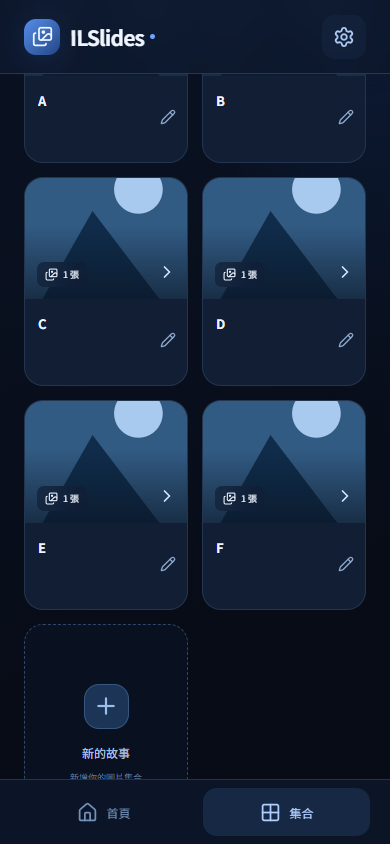
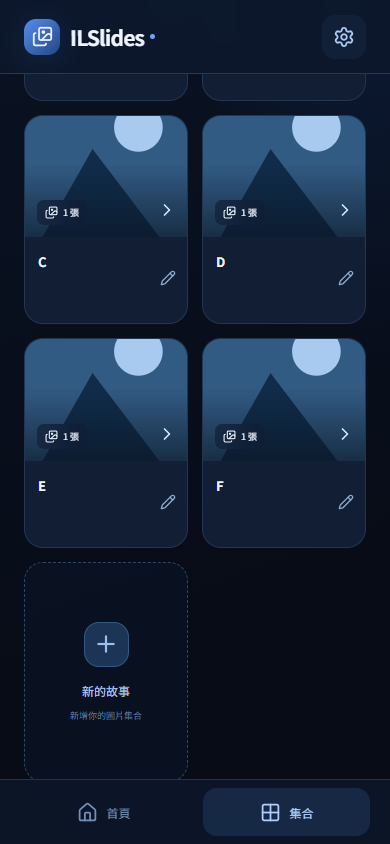
v1.0.7: 保留圖片返回位置並整合排序與標籤篩選

diff --git a/src/style.css b/src/style.css
@@ -3,10 +3,12 @@
 
 .source-section{margin-top:25px}.source-heading,.picker-heading{display:flex;align-items:center;justify-content:space-between;gap:12px;color:#97b0d3;font-size:11px}.source-heading>span,.source-heading button{display:flex;align-items:center;gap:6px}.source-heading button,.picker-heading button{color:#92b9f4;min-height:40px;font-size:10px}.folder-chips{display:flex;gap:8px;overflow:auto;padding:7px 0 12px}.folder-chips button{display:flex;align-items:center;gap:7px;flex-shrink:0;background:#142744;border:1px solid #304668;border-radius:12px;padding:11px 13px;font-size:11px;min-height:44px}.folder-chips button.chosen{background:#294d7e;border-color:#7faef2}.collection-sheet{display:flex;flex-direction:column;height:90dvh;max-height:90dvh}.collection-sheet .sheet-heading{margin-bottom:8px}.collection-sheet .sheet-handle{margin-bottom:14px}.editor-scroll{overflow:auto;min-height:0;flex:1;padding-bottom:16px}.collection-sheet .save-button{flex-shrink:0;margin-top:12px}.picker-heading{margin:12px 0 6px}.picker-empty{font-size:12px;color:#7e99bc;text-align:center;padding:24px}.photo-picker{display:grid;grid-template-columns:repeat(3,minmax(0,1fr));gap:8px}.pick-photo{position:relative;aspect-ratio:1;overflow:hidden;border-radius:12px;padding:0;border:2px solid transparent;background:#162940}.pick-photo.selected{border-color:#86b3f5}.photo-thumb{display:grid;place-items:center;width:100%;height:100%;font-size:9px;color:#8aa6cf;overflow:hidden;background:#142942}.photo-thumb img{width:100%;height:100%;object-fit:cover}.pick-check{position:absolute;top:7px;right:7px;width:22px;height:22px;border-radius:50%;border:1px solid #b1c9ed;background:#10223b90;display:grid;place-items:center}.selected .pick-check{background:#4b84d9}.pick-name{position:absolute;bottom:0;left:0;right:0;background:#071226b0;padding:7px 5px;white-space:nowrap;overflow:hidden;text-overflow:ellipsis;font-size:9px}.selected-strip{display:flex;gap:8px;overflow:auto}.selected-strip button{position:relative;width:66px;height:80px;flex-shrink:0;border-radius:10px;overflow:hidden;padding:0}.selected-strip button>span:last-of-type{position:absolute;bottom:0;left:0;right:0;font-size:8px;background:#0a1839aa;overflow:hidden;text-overflow:ellipsis;white-space:nowrap;padding:4px}.selected-strip svg{position:absolute;top:3px;right:3px;background:#07142dcc;border-radius:50%}@media(min-width:650px){.collection-sheet{height:85dvh}}
 .library>.stats{margin-top:28px}.collection-search{display:flex;align-items:center;gap:10px;background:#0f1d33;border:1px solid #2b4262;border-radius:14px;padding:0 13px;margin-bottom:18px;color:#7fa6da}.collection-search input{background:none;border:0;padding:15px 0;min-width:0}.collection-search button{display:grid;place-items:center;min-width:34px;min-height:44px}.search-empty{text-align:center;font-size:12px;color:#8fa9cf;padding:20px}.collection-card .cover{height:auto;aspect-ratio:4/3}.editor-delete{flex-shrink:0;border-top:1px solid #2c405e}.editor-delete .delete-button{width:100%;margin:8px 0 0;background:#5a2b3e70;border:1px solid #824055;border-radius:12px;font-size:12px;min-height:44px}.editor-delete .delete-confirm{margin:6px 0}.editor-delete .delete-confirm p{margin:8px 0}.crop-backdrop{position:fixed;inset:0;z-index:40;background:#030918dd;display:flex;align-items:center;justify-content:center;padding:18px}.crop-sheet{border-radius:22px;border-bottom:1px solid #324767;max-height:95dvh;padding:22px;overflow:auto}.crop-sheet .sheet-heading{margin-bottom:20px}.crop-window{position:relative;aspect-ratio:4/3;background:#081529;border:1px solid #7698c4;border-radius:14px;overflow:hidden}.crop-window canvas{width:100%;height:100%;display:block;touch-action:none;cursor:grab}.crop-window>span{position:absolute;inset:0;display:grid;place-items:center;color:#94acca;font-size:12px}.crop-guides{position:absolute;inset:0;pointer-events:none;background:linear-gradient(90deg,transparent 33%,#ffffff30 33%,#ffffff30 33.3%,transparent 33.3%,transparent 66%,#ffffff30 66%,#ffffff30 66.3%,transparent 66.3%),linear-gradient(transparent 33%,#ffffff30 33%,#ffffff30 33.3%,transparent 33.3%,transparent 66%,#ffffff30 66%,#ffffff30 66.3%,transparent 66.3%)}.zoom-row{display:flex;justify-content:space-between;align-items:center;font-size:12px;color:#a9c1e2}.zoom-row button{display:flex;align-items:center;gap:5px;font-size:10px;min-height:40px}input[type=range]{padding:0;height:40px;accent-color:#75aaff;border:0;background:none}.cover-options{display:flex;gap:9px;overflow:auto;padding:3px 0 13px}.cover-options button{position:relative;flex-shrink:0;width:76px;height:80px;border:2px solid transparent;border-radius:12px;overflow:hidden;padding:0}.cover-options button.chosen{border-color:#92bfff}.cover-options button>span:last-child{position:absolute;bottom:0;left:0;right:0;background:#08172aaa;font-size:8px;white-space:nowrap;overflow:hidden;text-overflow:ellipsis;padding:4px}.crop-sheet .save-button{margin-top:12px}
-.library{padding-top:calc(94px + env(safe-area-inset-top))}.topbar{position:fixed;top:0;left:0;right:0;z-index:15;background:#0c172bec;backdrop-filter:blur(20px);border-bottom:1px solid #243852;padding:calc(14px + env(safe-area-inset-top)) max(24px,calc((100vw - 920px)/2)) 14px;height:calc(74px + env(safe-area-inset-top))}.settings-button{color:#aac8f2;background:#1b305050}.library>.stats{margin-top:10px}.bottom-bar{padding:8px max(20px,calc((100vw - 920px)/2)) calc(8px + env(safe-area-inset-bottom));z-index:15;gap:16px}.bottom-bar button{flex:1;display:flex;align-items:center;justify-content:center;gap:9px;min-height:48px;border-radius:14px;color:#7290b8;font-size:12px}.bottom-bar button.selected{color:#b0cfff;background:#203a5d85}.sort-toolbar{display:flex;align-items:center;gap:10px;margin:0 0 18px;color:#89a9d3;font-size:11px}.sort-toolbar select{min-width:0;background:#152a47;border:1px solid #355278;border-radius:11px;padding:12px;color:#c1d4f1;font:inherit;min-height:44px;flex:1}.card-copy p+p{margin-top:6px}.settings-heading{display:flex;align-items:center;gap:12px;margin:12px 0 25px}.settings-heading h1{font-size:23px;margin:0}.setting-card{padding:24px;border:1px solid #2a405f;border-radius:20px;background:linear-gradient(145deg,#172b4a90,#101e32);margin-bottom:18px}.setting-title{display:flex;align-items:center;gap:10px;color:#a7c4f0}.setting-title h2{font-size:16px;font-weight:600;color:#e5efff;margin:0}.setting-card p{font-size:11px;color:#849fc3;line-height:1.9;margin:16px 0 25px}.duration-label,.duration-scale{display:flex;justify-content:space-between;align-items:center;font-size:12px;color:#93afd6}.duration-label output{background:#274971;padding:8px 12px;border-radius:10px;color:#d0e3ff;min-width:85px;text-align:center}.duration-scale{font-size:10px;color:#647f9f;margin:3px 0 20px}.reset-setting{padding:11px 14px;border:1px solid #355378;border-radius:11px;color:#a4c0e8;font-size:11px;min-height:44px}.setting-card .setting-note{font-size:10px;margin:20px 0 0}.version-card{display:flex;justify-content:space-between;align-items:center;font-size:12px;color:#8ca8cd}.version-card strong{color:#d0e1fb;font-size:14px;font-weight:500}.dissolve-enter-active,.dissolve-leave-active{transition-duration:var(--transition-time,360ms)}@media(min-width:650px){.library{padding-top:calc(94px + env(safe-area-inset-top))}}@media(prefers-reduced-motion:reduce){.dissolve-enter-active,.dissolve-leave-active{transition:none!important}}
+.library{padding-top:calc(94px + env(safe-area-inset-top))}.topbar{position:fixed;top:0;left:0;right:0;z-index:15;background:#0c172bec;backdrop-filter:blur(20px);border-bottom:1px solid #243852;padding:calc(14px + env(safe-area-inset-top)) max(24px,calc((100vw - 920px)/2)) 14px;height:calc(74px + env(safe-area-inset-top))}.settings-button{color:#aac8f2;background:#1b305050}.library>.stats{margin-top:10px}.bottom-bar{padding:8px max(20px,calc((100vw - 920px)/2)) calc(8px + env(safe-area-inset-bottom));z-index:15;gap:16px}.bottom-bar button{flex:1;display:flex;align-items:center;justify-content:center;gap:9px;min-height:48px;border-radius:14px;color:#7290b8;font-size:12px}.bottom-bar button.selected{color:#b0cfff;background:#203a5d85}.card-copy p+p{margin-top:6px}.settings-heading{display:flex;align-items:center;gap:12px;margin:12px 0 25px}.settings-heading h1{font-size:23px;margin:0}.setting-card{padding:24px;border:1px solid #2a405f;border-radius:20px;background:linear-gradient(145deg,#172b4a90,#101e32);margin-bottom:18px}.setting-title{display:flex;align-items:center;gap:10px;color:#a7c4f0}.setting-title h2{font-size:16px;font-weight:600;color:#e5efff;margin:0}.setting-card p{font-size:11px;color:#849fc3;line-height:1.9;margin:16px 0 25px}.duration-label,.duration-scale{display:flex;justify-content:space-between;align-items:center;font-size:12px;color:#93afd6}.duration-label output{background:#274971;padding:8px 12px;border-radius:10px;color:#d0e3ff;min-width:85px;text-align:center}.duration-scale{font-size:10px;color:#647f9f;margin:3px 0 20px}.reset-setting{padding:11px 14px;border:1px solid #355378;border-radius:11px;color:#a4c0e8;font-size:11px;min-height:44px}.setting-card .setting-note{font-size:10px;margin:20px 0 0}.version-card{display:flex;justify-content:space-between;align-items:center;font-size:12px;color:#8ca8cd}.version-card strong{color:#d0e1fb;font-size:14px;font-weight:500}.dissolve-enter-active,.dissolve-leave-active{transition-duration:var(--transition-time,360ms)}@media(min-width:650px){.library{padding-top:calc(94px + env(safe-area-inset-top))}}@media(prefers-reduced-motion:reduce){.dissolve-enter-active,.dissolve-leave-active{transition:none!important}}
 
 .editor-scroll-wrap{position:relative;flex:1;min-height:0}.editor-scroll-wrap .editor-scroll{height:100%;padding-bottom:74px}.editor-top-button{position:absolute;right:5px;bottom:14px;width:48px;height:48px;border-radius:50%;display:grid;place-items:center;background:#254d8088;border:1px solid #96bcf080;backdrop-filter:blur(10px);color:#d4e5ff;box-shadow:0 4px 18px #0004;z-index:2}
 
 .setting-toggle-row{display:flex;align-items:center;gap:18px}.setting-toggle-row>div{flex:1}.setting-toggle-row h2{font-size:15px;margin:0;color:#dfebff;font-weight:600}.setting-toggle-row p{margin:10px 0 0}.setting-toggle-row button{flex-shrink:0;width:52px;min-height:44px;position:relative;display:grid;align-items:center;padding:0 4px}.setting-toggle-row button:before{content:"";position:absolute;inset:7px 0;border-radius:20px;background:#30435f;border:1px solid #526784}.setting-toggle-row button.enabled:before{background:#477fc8;border-color:#80b5fb}.setting-toggle-row button>span{position:relative;width:22px;height:22px;border-radius:50%;background:#d9e5f5;transition:transform .2s;box-shadow:0 2px 6px #0003}.setting-toggle-row button.enabled>span{transform:translateX(22px)}.auto-name-setting .setting-note{word-break:break-word}.auto-name-hint{margin:10px 0 0;font-size:11px;color:#8fb5eb;line-height:1.7;overflow-wrap:anywhere}
 
 .tag-pill{display:inline-flex;max-width:100%;border-radius:9px;padding:2px;color:#fff;font-size:10px;line-height:1.5;overflow:hidden;text-align:left;vertical-align:middle}.tag-pill>span{display:flex;align-items:center;gap:4px;max-width:100%;padding:4px 8px;border-radius:7px;background:#06101b99;overflow-wrap:anywhere;text-shadow:0 1px 2px #0008}.collection-tags{display:flex;flex-wrap:wrap;align-content:flex-start;gap:5px;margin-top:10px;min-height:27px}.card-copy{min-width:0}.tag-picker{display:flex;flex-wrap:wrap;gap:8px}.tag-picker button{min-height:44px;border:2px solid transparent;opacity:.6}.tag-picker button.chosen{border-color:#d8e9ff;opacity:1}.tag-picker button>span{min-height:32px}.tag-hint{color:#90a8c9;font-size:11px}.tag-list{display:grid;gap:8px;margin-bottom:20px}.tag-row{display:flex;align-items:center;gap:4px;min-width:0}.tag-row>.tag-pill{margin-right:auto}.tag-row .icon-button{flex-shrink:0;min-width:44px;min-height:44px}.tag-delete{color:#e1a2b3}.tag-form{border-top:1px solid #304461;padding-top:4px}.tag-colors{display:flex;gap:18px;margin:18px 0}.tag-colors label{display:flex;align-items:center;gap:8px;flex:1;font-size:11px;color:#a3badb}.tag-colors input[type=color]{width:44px;height:44px;padding:3px;border-radius:10px;flex-shrink:0}.tag-preview{display:flex;align-items:center;gap:14px;font-size:11px;color:#9eb5d5;margin:12px 0 20px}.tag-actions{display:flex;align-items:center;flex-wrap:wrap;gap:10px}.tag-actions .primary{font-size:12px;padding:12px 16px;min-height:44px}.tag-manager .tag-error{color:#ffbac7;margin:10px 0}.tag-manager .tag-empty{margin:14px 0}.collection-card .card-copy h3{overflow-wrap:anywhere}@media(max-width:370px){.tag-colors{flex-wrap:wrap;gap:10px}.tag-colors label{flex-basis:100%}}
+
+.collection-search-row{display:flex;align-items:stretch;gap:10px;margin-bottom:18px}.collection-search-row .collection-search{flex:1;min-width:0;margin-bottom:0}.collection-search-row .collection-search input{flex:1;width:0}.collection-search-row .collection-search>svg{flex-shrink:0}.filter-button{position:relative;display:grid;place-items:center;width:52px;min-height:50px;flex-shrink:0;border:1px solid #355278;background:#152a47;border-radius:14px;color:#a7c7f2}.filter-button.active{border-color:#8bb9fc;background:#244a76;color:#e2eeff}.filter-button>span{position:absolute;top:3px;right:3px;min-width:15px;min-height:15px;border-radius:8px;padding:0 3px;display:grid;place-items:center;background:#97c5ff;color:#102442;font-size:9px}.filter-sheet{display:flex;flex-direction:column;padding-top:14px;overflow:hidden}.filter-sheet .sheet-handle{margin-bottom:15px}.filter-sheet .sheet-heading{flex-shrink:0;margin-bottom:12px}.filter-scroll{overflow:auto;min-height:0;overscroll-behavior:contain;padding-bottom:16px}.filter-section-title{display:flex;gap:8px;align-items:center;color:#a8c5ee}.filter-sheet h3{font-size:13px;font-weight:600;margin:12px 0}.filter-sort{display:flex;gap:12px}.filter-sort>div{flex:1;min-width:0}.filter-sort .field-label{margin-top:10px}.filter-sort select{width:100%;min-width:0;min-height:48px;background:#0d1c33;border:1px solid #355278;border-radius:12px;padding:12px;color:#d4e3fa;font:inherit;font-size:12px}.filter-tag-heading{display:flex;justify-content:space-between;align-items:center;gap:12px;margin-top:22px}.filter-tag-heading .selected{border-color:#8bb9fc;color:#dfebff;background:#24436a}.filter-hint{font-size:11px;line-height:1.8;color:#91a9ca;margin:8px 0 16px}.filter-actions{display:flex;align-items:center;gap:12px;flex-shrink:0;border-top:1px solid #2b405f;padding-top:16px}.filter-actions .primary{flex:1;flex-wrap:wrap;gap:3px}.filter-backdrop{overscroll-behavior:contain}@media(max-width:350px){.filter-sort{flex-direction:column;gap:0}.filter-sheet{padding-left:18px;padding-right:18px}}

diff --git a/src/App.vue b/src/App.vue
@@ -1,18 +1,19 @@
 <script setup lang="ts">
-import { computed, ref, watch, onMounted, onUnmounted } from 'vue'
+import { computed, ref, watch, nextTick, onMounted, onUnmounted } from 'vue'
 import { Capacitor } from '@capacitor/core'
 import { App as NativeApp } from '@capacitor/app'
-import { Plus, ArrowLeft, ArrowRight, FolderOpen, Images, X, Pencil, Trash2, ChevronRight, ArrowUp, Grid2X2, Check, Search, Settings, Home, ArrowUpDown } from 'lucide-vue-next'
+import { Plus, ArrowLeft, ArrowRight, FolderOpen, Images, X, Pencil, Trash2, ChevronRight, ArrowUp, Grid2X2, Check, Search, Settings, Home, Funnel } from 'lucide-vue-next'
 import { Folders, loadCollections, loadFolders, uniquePhotos, suggestCollectionName, sortedPhotos, nextIndex, type Collection, type Photo, type SourceFolder } from './library'
 import PhotoThumb from './PhotoThumb.vue'
 import CoverEditor from './CoverEditor.vue'
 import type { CoverSettings } from './cover'
 import CollectionCover from './CollectionCover.vue'
 import TagManager from './TagManager.vue'
+import CollectionFilter from './CollectionFilter.vue'
 import { loadTags, tagStyle, type Tag } from './tags'
 import { coverKey, coverLoader } from './cover-cache'
 import { version } from '../package.json'
-import { sortCollections, loadPreferences, transitionTime } from './preferences'
+import { sortCollections, filterCollections, loadPreferences, transitionTime } from './preferences'
 const folders = ref(loadFolders())
 const collections = ref(loadCollections())
 const active = ref<Collection | null>(null)
@@ -29,6 +30,7 @@ function removeTag(id:string) {
   tags.value=tags.value.filter(t=>t.id!==id)
   for(const c of collections.value) if(c.tagIds?.includes(id)) c.tagIds=c.tagIds.filter(v=>v!==id)
   draftTags.value=draftTags.value.filter(v=>v!==id)
+  filterTags.value=filterTags.value.filter(v=>v!==id)
 }
 async function refreshCovers() {
   if(cacheBusy.value) return
@@ -46,7 +48,13 @@ function changedHash() { page.value=hashPage(); window.scrollTo(0,0) }
 const preferences = ref(loadPreferences())
 watch(preferences,value=>{ try {localStorage.setItem('ilslides.preferences',JSON.stringify(value))} catch {error.value='設定無法保存。'} },{deep:true})
 const query = ref('')
-const filteredCollections = computed(() => sortCollections(collections.value.filter(c => c.name.toLocaleLowerCase().includes(query.value.trim().toLocaleLowerCase())),preferences.value.sortKey,preferences.value.sortDirection))
+const filterOpen=ref(false),filterTags=ref<string[]>([])
+function applyFilter(value:{tags:string[];sortKey:typeof preferences.value.sortKey;sortDirection:typeof preferences.value.sortDirection}) {
+  preferences.value.sortKey=value.sortKey;preferences.value.sortDirection=value.sortDirection
+  filterTags.value=value.tags;filterOpen.value=false
+  window.scrollTo(0,0)
+}
+const filteredCollections = computed(() => sortCollections(filterCollections(collections.value,query.value,filterTags.value),preferences.value.sortKey,preferences.value.sortDirection))
 const visibleCollections = computed(() => page.value==='home' ? sortCollections(collections.value,'updatedAt','desc').slice(0,4) : filteredCollections.value)
 const draftCover = ref<CoverSettings>()
 const coverEditor = ref(false)
@@ -72,6 +80,7 @@ const total = computed(() => collections.value.reduce((sum,c) => sum + c.photos.
 const current = computed(() => photos.value[index.value])
 const cache = new Map<string,string>()
 let request = 0
+let libraryScrollTop=0
 let touchX = 0, touchY = 0
 let swiped = false
 let removeBack: (() => void) | undefined
@@ -112,12 +121,18 @@ watch(index, show)
 async function open(c:Collection) {
   if(busy.value) return
   if(c.legacyTree) { error.value='舊集合尚未完成轉換，請編輯並選取要保留的圖片。'; return }
+  libraryScrollTop=document.scrollingElement?.scrollTop || window.scrollY
   busy.value=true; error.value=''
   cache.clear(); photos.value=[...c.photos]
   index.value=0; displayed.value=''; active.value=c; controls.value=true
   try { await show() } finally { busy.value=false }
 }
-function close() { ++request; active.value=null; photos.value=[]; displayed.value=''; imageBusy.value=false }
+async function close() {
+  const returnPage=page.value,position=libraryScrollTop
+  ++request;active.value=null;photos.value=[];displayed.value='';imageBusy.value=false
+  await nextTick()
+  if(!active.value && page.value===returnPage) window.scrollTo(0,position)
+}
 function step(delta:number) { if(photos.value.length > 1) { error.value=''; index.value=nextIndex(index.value,delta,photos.value.length) } }
 function toggleControls() { if(swiped) {swiped=false;return}; controls.value=!controls.value }
 function start(e:TouchEvent) { swiped=false; touchX=e.changedTouches[0]!.clientX; touchY=e.changedTouches[0]!.clientY }
@@ -172,12 +187,12 @@ function remove() {
   modal.value=false; deleting.value=false
 }
 watch(modal, () => { deleting.value=false; if(!modal.value) { ++folderRequest; folderBusy.value=false } })
-function keyboard(e:KeyboardEvent) { if(coverEditor.value) { if(e.key==='Escape') coverEditor.value=false; return }; if(modal.value) { if(e.key==='Escape') modal.value=false; return }; if(active.value) { if(e.key==='ArrowRight') step(1); if(e.key==='ArrowLeft') step(-1); if(e.key==='Escape') close() } else if(e.key==='Escape' && page.value==='settings') navigate(settingsReturn) }
+function keyboard(e:KeyboardEvent) { if(filterOpen.value) {if(e.key==='Escape') filterOpen.value=false;return}; if(coverEditor.value) { if(e.key==='Escape') coverEditor.value=false; return }; if(modal.value) { if(e.key==='Escape') modal.value=false; return }; if(active.value) { if(e.key==='ArrowRight') step(1); if(e.key==='ArrowLeft') step(-1); if(e.key==='Escape') close() } else if(e.key==='Escape' && page.value==='settings') navigate(settingsReturn) }
 onMounted(async () => {
   window.addEventListener('keydown',keyboard)
   window.addEventListener('hashchange',changedHash)
   if(Capacitor.isNativePlatform()) {
-    const listener=await NativeApp.addListener('backButton', () => { if(coverEditor.value) coverEditor.value=false; else if(modal.value) modal.value=false; else if(active.value) close(); else if(page.value==='settings') navigate(settingsReturn); else if(page.value==='collections') { if((document.scrollingElement?.scrollTop || window.scrollY)>1) window.scrollTo(0,0); else void NativeApp.exitApp() } else void NativeApp.exitApp() })
+    const listener=await NativeApp.addListener('backButton', () => { if(filterOpen.value) filterOpen.value=false; else if(coverEditor.value) coverEditor.value=false; else if(modal.value) modal.value=false; else if(active.value) close(); else if(page.value==='settings') navigate(settingsReturn); else if(page.value==='collections') { if((document.scrollingElement?.scrollTop || window.scrollY)>1) window.scrollTo(0,0); else void NativeApp.exitApp() } else void NativeApp.exitApp() })
     removeBack=()=>void listener.remove()
     for(const c of collections.value) {
       if(c.legacyTree) {
@@ -192,16 +207,15 @@ onUnmounted(() => { window.removeEventListener('keydown',keyboard); window.remov
 </script>
 
 <template>
-  <main v-if="!active" class="library">
+  <main v-if="!active" class="library" :inert="filterOpen">
     <header class="topbar"><a class="brand" href="#/home" aria-label="ILSlides 首頁" @click.prevent="navigate('home')"><span class="brand-icon"><Images :size="21" /></span>ILSlides<span class="brand-dot"></span></a><button class="icon-button settings-button" @click="navigate('settings')" aria-label="開啟設定"><Settings :size="22" /></button></header>
     <section v-if="page==='settings'" class="settings-page"><div class="settings-heading"><button class="icon-button" @click="navigate(settingsReturn)" aria-label="返回設定前頁面"><ArrowLeft :size="20" /></button><h1>設定</h1></div><section class="setting-card"><div class="setting-title"><Images :size="21" /><h2>圖片轉場動畫</h2></div><p>調整左右瀏覽時，淡入淡出的動畫時間。</p><div class="duration-label"><label for="transition-duration">動畫時間</label><output>{{ (preferences.transitionMs/1000).toFixed(2) }} 秒</output></div><input id="transition-duration" type="range" min="100" max="2000" step="20" :value="preferences.transitionMs" @input="preferences.transitionMs=transitionTime(Number(($event.target as HTMLInputElement).value))" /><div class="duration-scale"><span>0.10 秒 · 快速</span><span>2.00 秒 · 緩慢</span></div><button class="reset-setting" @click="preferences.transitionMs=360">恢復預設 0.36 秒</button><p class="setting-note">設定自動保存。裝置啟用減少動畫時，會優先依裝置設定顯示。</p></section><section class="setting-card auto-name-setting"><div class="setting-toggle-row"><div><h2>自動命名新集合</h2><p>名稱留空時，以第一張選取圖片的檔名命名。</p></div><button role="switch" aria-label="自動命名新集合" :aria-checked="preferences.autoName" :class="{enabled:preferences.autoName}" @click="preferences.autoName=!preferences.autoName"><span></span></button></div><p class="setting-note">規則 <code>^([^\s-]+)</code>：取第一個空白或「-」之前的字串；手動輸入名稱時優先使用手動名稱。</p></section><TagManager v-model:tags="tags" @remove="removeTag" /><section class="setting-card"><div class="setting-title"><h2>封面快取</h2></div><p>封面會保存於裝置，讓下次開啟更快。若圖片已變更，可清除快取並重新整理。</p><button class="reset-setting" :disabled="cacheBusy" @click="refreshCovers">{{ cacheBusy ? '正在清除…' : '重新整理封面' }}</button><p v-if="cacheMessage" role="status" class="setting-note">{{ cacheMessage }}</p></section><section class="setting-card version-card"><span>ILSlides 版本</span><strong>{{ version }}</strong></section></section>
     <template v-else>
     <section v-if="page==='home'" class="stats"><div><strong>{{ collections.length.toString().padStart(2,'0') }}</strong><span>圖片集合</span></div><div class="stat-divider"></div><div><strong>{{ total.toLocaleString() }}</strong><span>張照片</span></div><span class="offline"><span></span>僅在裝置上讀取</span></section>
     <section v-if="page==='collections'" class="source-section"><div class="source-heading"><span><FolderOpen :size="15" />常用資料夾</span><button @click="edit()">管理／挑選圖片<ChevronRight :size="15" /></button></div><div class="folder-chips"><button v-for="f in folders" :key="f.uri" @click="edit(undefined,f)"><FolderOpen :size="14" />{{ f.name }}</button><button v-if="!folders.length" @click="edit()"><Plus :size="14" />記住圖片資料夾</button></div></section>
     <div class="section-heading"><div><h2>{{ page==='home' ? '最近的集合' : '我的集合' }} <span>{{ collections.length }}</span></h2><p>{{ page==='home' ? '最近修改的 4 筆集合' : '挑選喜歡的照片，組成你的故事' }}</p></div><button v-if="page==='collections'" class="add-button" @click="edit()"><Plus :size="18" />新增集合</button><button v-else class="add-button" @click="navigate('collections')">查看全部<ChevronRight :size="18" /></button></div>
-    <div v-if="page==='collections'" class="collection-search"><Search :size="18" /><input v-model="query" type="search" aria-label="搜尋集合" placeholder="搜尋集合名稱" /><button v-if="query" @click="query=''" aria-label="清除搜尋"><X :size="18" /></button></div>
-    <div v-if="page==='collections'" class="sort-toolbar"><ArrowUpDown :size="16" /><label for="sort-key">排序</label><select id="sort-key" v-model="preferences.sortKey"><option value="name">字母</option><option value="createdAt">建立日期</option><option value="updatedAt">修改日期</option></select><select v-model="preferences.sortDirection" aria-label="排序方向"><option value="asc">遞增</option><option value="desc">遞減</option></select></div>
-    <p v-if="page==='collections' && collections.length && !filteredCollections.length" class="search-empty">找不到符合「{{ query }}」的集合。</p>
+    <div v-if="page==='collections'" class="collection-search-row"><div class="collection-search"><Search :size="18" /><input v-model="query" type="search" aria-label="搜尋集合" placeholder="搜尋集合名稱" /><button v-if="query" @click="query=''" aria-label="清除搜尋"><X :size="18" /></button></div><button class="filter-button" :class="{active:filterTags.length}" aria-label="篩選與排序" aria-haspopup="dialog" aria-controls="collection-filter" :aria-expanded="filterOpen" @click="filterOpen=true"><Funnel :size="21" /><span v-if="filterTags.length" aria-hidden="true">{{ filterTags.length }}</span></button></div>
+    <p v-if="page==='collections' && collections.length && !filteredCollections.length" class="search-empty">{{ query.trim() ? '找不到符合「'+query+'」'+(filterTags.length ? '及目前篩選條件' : '')+'的集合。' : '沒有符合所選標籤的集合。' }}</p>
     <section v-if="collections.length" class="collection-grid">
       <article v-for="(c,i) in visibleCollections" :key="c.id" class="collection-card">
         <button class="card-open" @click="open(c)" :disabled="busy" :aria-label="`開啟 ${c.name}`"><CollectionCover :key="c.id+':'+coverEpoch" :collection="c" :class="`cover-${i%3}`"><span class="photo-count"><Images :size="13" />{{ c.photos.length }} 張</span><span class="open-indicator"><ChevronRight :size="20" /></span></CollectionCover><div class="card-copy"><h3>{{ c.name }}</h3><div class="collection-tags"><span v-for="tag in collectionTags(c)" :key="tag.id" class="tag-pill" :style="tagStyle(tag)"><span>{{ tag.name }}</span></span></div></div></button>
@@ -244,5 +258,6 @@ onUnmounted(() => { window.removeEventListener('keydown',keyboard); window.remov
       <button class="primary save-button" :disabled="!collectionName || !draftPhotos.length || busy" @click="save">{{ editId ? '儲存變更' : '建立集合' }} · {{ draftPhotos.length }} 張<ArrowRight :size="18" /></button>
     </section>
   </div>
+  <CollectionFilter v-if="filterOpen" :tags="tags" :selected="filterTags" :sort-key="preferences.sortKey" :sort-direction="preferences.sortDirection" @close="filterOpen=false" @apply="applyFilter" />
   <CoverEditor v-if="coverEditor && draftPhotos.length" :photos="draftPhotos" :initial="draftCover && selected(draftCover.uri) ? draftCover : undefined" @close="coverEditor=false" @save="draftCover=$event; coverEditor=false" />
 </template>

diff --git a/src/CollectionFilter.vue b/src/CollectionFilter.vue
@@ -1,0 +1,42 @@
+<script setup lang="ts">
+import { ref, onMounted, onUnmounted } from 'vue'
+import { X, Check, SlidersHorizontal } from 'lucide-vue-next'
+import { tagStyle, type Tag } from './tags'
+import type { SortKey, SortDirection } from './preferences'
+const props=defineProps<{tags:Tag[];selected:string[];sortKey:SortKey;sortDirection:SortDirection}>()
+const emit=defineEmits<{close:[];apply:[value:{tags:string[];sortKey:SortKey;sortDirection:SortDirection}]}>()
+const selected=ref([...props.selected]),key=ref(props.sortKey),direction=ref(props.sortDirection),sheet=ref<HTMLElement>()
+const previousFocus=document.activeElement instanceof HTMLElement ? document.activeElement : undefined
+const previousOverflow=document.body.style.overflow
+function toggle(id:string) {selected.value=selected.value.includes(id) ? selected.value.filter(v=>v!==id) : [...selected.value,id]}
+function reset() {selected.value=[];key.value='name';direction.value='asc'}
+function apply() {emit('apply',{tags:selected.value.filter(id=>props.tags.some(t=>t.id===id)),sortKey:key.value,sortDirection:direction.value})}
+function keyboard(e:KeyboardEvent) {
+ if(e.key==='Escape') {e.stopPropagation();emit('close');return}
+ if(e.key!=='Tab') return
+ const focusable=sheet.value?.querySelectorAll<HTMLElement>('button:not(:disabled),select')
+ if(!focusable?.length) return
+ const first=focusable[0]!,last=focusable[focusable.length-1]!
+ if(e.shiftKey && document.activeElement===first) {e.preventDefault();last.focus()}
+ else if(!e.shiftKey && document.activeElement===last) {e.preventDefault();first.focus()}
+}
+onMounted(()=>{document.body.style.overflow='hidden';sheet.value?.querySelector<HTMLElement>('button')?.focus({preventScroll:true})})
+onUnmounted(()=>{document.body.style.overflow=previousOverflow;previousFocus?.focus({preventScroll:true})})
+</script>
+<template>
+ <div class="modal-backdrop filter-backdrop" @click.self="emit('close')" @keydown="keyboard">
+  <section id="collection-filter" ref="sheet" class="sheet filter-sheet" role="dialog" aria-modal="true" aria-labelledby="filter-title">
+   <div class="sheet-handle"></div>
+   <div class="sheet-heading"><div><span class="eyebrow">FIND YOUR COLLECTION</span><h2 id="filter-title">篩選與排序</h2></div><button class="icon-button" aria-label="關閉篩選" @click="emit('close')"><X :size="21" /></button></div>
+   <div class="filter-scroll">
+    <div class="filter-section-title"><SlidersHorizontal :size="16" /><h3>排序方式</h3></div>
+    <div class="filter-sort"><div><label for="sort-key" class="field-label">排序</label><select id="sort-key" v-model="key"><option value="name">字母</option><option value="createdAt">建立日期</option><option value="updatedAt">修改日期</option></select></div><div><label for="sort-direction" class="field-label">排序方向</label><select id="sort-direction" v-model="direction"><option value="asc">遞增</option><option value="desc">遞減</option></select></div></div>
+    <div class="filter-tag-heading"><h3>依標籤篩選</h3><button class="reset-setting" :class="{selected:!selected.length}" :aria-pressed="!selected.length" @click="selected=[]">全部集合</button></div>
+    <p class="filter-hint">可複選，符合任一所選標籤即顯示；未選標籤時顯示全部集合。</p>
+    <div v-if="tags.length" class="tag-picker"><button v-for="tag in tags" :key="tag.id" class="tag-pill" :class="{chosen:selected.includes(tag.id)}" :style="tagStyle(tag)" :aria-label="'篩選標籤 '+tag.name" :aria-pressed="selected.includes(tag.id)" @click="toggle(tag.id)"><span><Check v-if="selected.includes(tag.id)" :size="13" />{{ tag.name }}</span></button></div>
+    <p v-else class="filter-hint">尚未建立標籤，可至設定頁新增。</p>
+   </div>
+   <div class="filter-actions"><button class="reset-setting" @click="reset">重設條件</button><button class="primary" @click="apply">套用篩選<span v-if="selected.length"> · {{ selected.length }} 個標籤</span></button></div>
+  </section>
+ </div>
+</template>

diff --git a/src/preferences.test.ts b/src/preferences.test.ts
@@ -1,8 +1,21 @@
 import { describe,it,expect,beforeEach } from 'vitest'
-import { sortCollections, transitionTime, loadPreferences } from './preferences'
+import { sortCollections, filterCollections, transitionTime, loadPreferences } from './preferences'
+import type { Collection } from './library'
 const rows=[{id:'b',name:'B',photos:[],createdAt:10,updatedAt:30},{id:'a',name:'A',photos:[],createdAt:30,updatedAt:10},{id:'c',name:'C',photos:[],createdAt:20,updatedAt:20}]
 beforeEach(()=>Object.assign(globalThis,{localStorage:{getItem:()=>null}}))
 describe('集合排序與轉場設定',()=>{
+ it('未選標籤時保留全部，搜尋忽略大小寫及前後空白',()=>{
+  expect(filterCollections(rows,'',[])).toEqual(rows)
+  expect(filterCollections(rows,'  b ',[]).map(c=>c.id)).toEqual(['b'])
+ })
+ it('複選標籤採任一符合，且與名稱搜尋一起套用',()=>{
+  const tagged:Collection[]=[{...rows[0]!,tagIds:['trip']},{...rows[1]!,tagIds:['family']},{...rows[2]!,tagIds:['trip','family']}, {id:'old',name:'Old',photos:[]}]
+  expect(filterCollections(tagged,'',['trip']).map(c=>c.id)).toEqual(['b','c'])
+  expect(filterCollections(tagged,'',['trip','family']).map(c=>c.id)).toEqual(['b','a','c'])
+  expect(filterCollections(tagged,'c',['family']).map(c=>c.id)).toEqual(['c'])
+  expect(filterCollections(tagged,'',['missing'])).toEqual([])
+  expect(tagged[0]!.tagIds).toEqual(['trip'])
+ })
  it('三種欄位各自支援遞增及遞減且不改原順序',()=>{
   expect(sortCollections(rows,'name','asc').map(c=>c.id)).toEqual(['a','b','c'])
   expect(sortCollections(rows,'name','desc').map(c=>c.id)).toEqual(['c','b','a'])

diff --git a/src/preferences.ts b/src/preferences.ts
@@ -1,6 +1,10 @@
 import type { Collection } from './library'
 export type SortKey='name'|'createdAt'|'updatedAt'
 export type SortDirection='asc'|'desc'
+export function filterCollections(collections:Collection[], query:string, tags:string[]) {
+ const name=query.trim().toLocaleLowerCase()
+ return collections.filter(c=>c.name.toLocaleLowerCase().includes(name) && (!tags.length || tags.some(id=>c.tagIds?.includes(id))))
+}
 export function sortCollections(collections:Collection[], key:SortKey, direction:SortDirection) {
  const sign=direction==='asc' ? 1 : -1
  return [...collections].sort((a,b)=>sign*(key==='name' ? a.name.localeCompare(b.name,'zh-Hant',{numeric:true,sensitivity:'base'}) : (a[key] || 0)-(b[key] || 0)))

diff --git a/README.md b/README.md
@@ -4,7 +4,7 @@
 
 ## 安裝
 
-前往 [GitHub Releases](https://github.com/Tidy1245/ILSlides/releases/latest) 下載 **ILSlides1-0-6.apk**，支援 **Android 9（API 28）以上**。與 Video-Box 相同，提供 Capacitor debug 簽章 APK 直接安裝。
+前往 [GitHub Releases](https://github.com/Tidy1245/ILSlides/releases/latest) 下載 **ILSlides1-0-7.apk**，支援 **Android 9（API 28）以上**。與 Video-Box 相同，提供 Capacitor debug 簽章 APK 直接安裝。
 
 ## 使用方式
 
@@ -12,11 +12,11 @@
 2. 點「選擇／重新授權資料夾」，選擇圖片來源。App 會記住此資料夾，下次直接點常用資料夾即可開啟。
 3. 在縮圖上勾選多張圖片；可切換其他資料夾繼續勾選，或全選目前資料夾。
 4. 點「建立集合」。集合只包含已勾選圖片，依挑選順序瀏覽。
-5. 打開集合即以完整畫面顯示圖片，左右滑動瀏覽；點圖片隱藏／顯示上方半透明標題列。下方說明及工具區已移除。
+5. 打開集合即以完整畫面顯示圖片，左右滑動瀏覽；點圖片隱藏／顯示上方半透明標題列。下方說明及工具區已移除。返回首頁／集合頁時恢復原本捲動位置，搜尋及標籤條件保留。
 6. 編輯集合可改名、增加圖片、取消勾選；底部固定「刪除集合」鍵，確認後只刪集合設定。
 7. 點「選擇封面與調整視窗」，從集合選一張圖片，在 4:3 視窗拖曳位置及縮放 1～3 倍；點「使用此封面」再儲存集合。取消調整不變更封面。封面圖片移出集合後回退至集合第一張。
 8. 首頁顯示最近修改的最多 4 筆集合；完整搜尋、新增、編輯、刪除與封面功能放在「集合」頁。
-9. 集合頁可依字母、建立日期、修改日期排序，各支援遞增／遞減並保存選擇。
+9. 搜尋框右側漏斗按鈕開啟「篩選與排序」：依字母、建立日期、修改日期遞增／遞減排序並保存，或複選標籤（符合任一所選標籤），與名稱搜尋共同套用。按套用才生效，關閉／返回取消草稿；可重設條件。
 10. 集合頁按 Android 系統返回鍵：尚未在頁面頂部時先回到頂部；已在頂部時退出 App。新增與編輯集合的捲動區離開頂部時，右下方顯示半透明回頂部按鈕。
 11. 頂部與底部導覽列固定；點頂部右側齒輪進入設定頁，版本號顯示在設定頁。滑桿調整圖片轉場 0.10～2.00 秒，預設 0.36 秒、自動保存。
 
@@ -68,10 +68,10 @@ npm run release:prepare -- 2.0.0 # 明確指定
 
 UI 測試：安裝 Playwright 後執行 `npm run dev` 與 `node scripts/ui-smoke.mjs`、`node scripts/cache-tags-smoke.mjs`；可用 `PLAYWRIGHT_MODULE` 指定模組路徑，`APP_URL` 指定測試網址。原生 bridge 使用模擬資料。
 
-## v1.0.6 驗證
+## v1.0.7 驗證
 
-- 型別檢查、正式建置、36 項 TypeScript 單元測試及 5 項 Android 封面快取測試。
-- 新增 UI 測試涵蓋 200 個集合的可見優先載入、快取命中不解碼原圖、手動清除、來源變動，以及漸層標籤的新增／多選／修改／保存／刪除。
+- 型別檢查、正式建置、38 項 TypeScript 單元測試及 5 項 Android 封面快取測試。
+- UI 測試涵蓋 200 個集合的可見優先／快取、漸層標籤與篩選視窗的全部排序選項、標籤複選／搜尋組合／取消／重設，以及首頁／集合頁在圖片瀏覽返回後恢復捲動位置。
 - 手機 UI 測試新增編輯集合回頂部、空名稱自動命名、選取順序變更、手動名稱優先、停用開關／重開保存與已有集合不自動改名；既有返回鍵、瀏覽、設定、排序、封面、搜尋與升級流程回歸通過。
 - Android APK 建置與 lint 通過；APK 簽章與 SHA-256 驗證。
 - 此次未連接 Android 實機，目錄持久授權與裝置圖片解碼仍需實機確認。
@@ -111,3 +111,9 @@ UI 測試：安裝 Playwright 後執行 `npm run dev` 與 `node scripts/ui-smoke
 | 集合標籤 | 設定管理 |
 | --- | --- |
 | ![標籤](docs/tags-home.png) | ![標籤設定](docs/tags-settings.png) |
+
+篩選與排序：
+
+| 搜尋框與漏斗 | 篩選視窗 |
+| --- | --- |
+| ![集合搜尋](docs/collection-search-filter.png) | ![篩選排序](docs/collection-filter.png) |

diff --git a/docs/release-v1.0.7.md b/docs/release-v1.0.7.md
@@ -1,0 +1,15 @@
+ILSlides v1.0.7
+
+- 離開圖片瀏覽後，回到原本的首頁／集合頁捲動位置，保留搜尋與標籤條件；支援畫面返回、Android 返回鍵與 Escape。
+- 搜尋框右側新增漏斗按鈕，移除原本的整列排序控制，改由「篩選與排序」視窗操作。
+- 保留字母、建立日期與修改日期各自的遞增／遞減排序，並保存排序選擇。
+- 支援複選標籤篩選，符合任一所選標籤即顯示，並可與集合名稱搜尋搭配；不選標籤時顯示全部。
+- 按「套用篩選」才生效；可重設條件，關閉或返回則取消尚未套用的修改。漏斗會顯示已選標籤數量。
+
+下載 ILSlides1-0-7.apk，可覆蓋安裝；Android 9 以上，versionName 1.0.7、versionCode 8，沿用相同 debug 簽章。
+
+驗證：38 項 TypeScript 單元測試、5 項 Android 快取測試、既有手機 UI 回歸與篩選／排序／搜尋／標籤組合、取消／重設、首頁及集合頁返回位置流程通過。Android 建置、lint、APK 版本與簽章驗證通過。
+
+UI 原生 bridge、SAF 及圖片使用模擬資料，未接 Android 實機。
+
+附 SHA256SUMS.txt。

diff --git a/AGENTS.md b/AGENTS.md
@@ -11,6 +11,14 @@
 
 ## 目前開發進度
 
+### v1.0.7（2026-10-15）
+
+- 離開圖片瀏覽時恢復進入前的頁面捲動位置，支援畫面返回鈕、Android 返回鍵及 Escape；搜尋與標籤篩選保留。
+- 移除集合頁原排序整列，搜尋輸入框右側改為獨立漏斗按鈕，開啟「篩選與排序」視窗。
+- 保留字母／建立日期／修改日期的遞增與遞減排序並保存；新增標籤複選（符合任一標籤），與名稱搜尋共同套用。
+- 篩選視窗支援套用、重設、關閉／Escape／Android 返回取消草稿；漏斗顯示已選標籤數量，刪除標籤同步解除其篩選。
+- 38 項 TypeScript 單元測試、5 項 Android 快取測試與手機 UI 回歸；新增篩選／排序／搜尋組合、取消／重設及首頁／集合頁返回位置驗證均通過，Android 建置與 lint 通過。UI 原生 bridge 使用模擬資料，未接 Android 實機。
+
 ### v1.0.6（2026-10-15）
 
 - 集合封面改為接近畫面才載入，首頁僅優先處理最近 4 筆；相同封面請求共用工作、離屏未開始工作略過。
